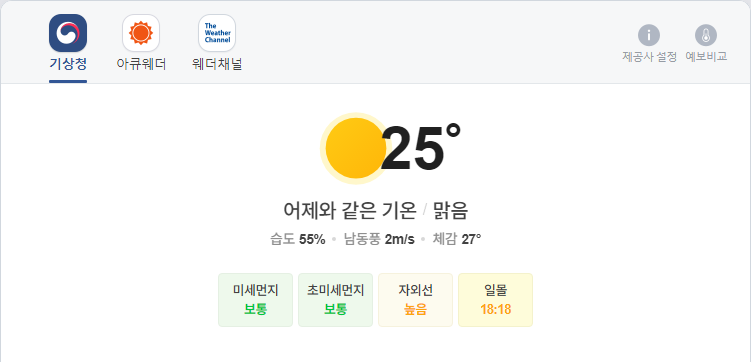
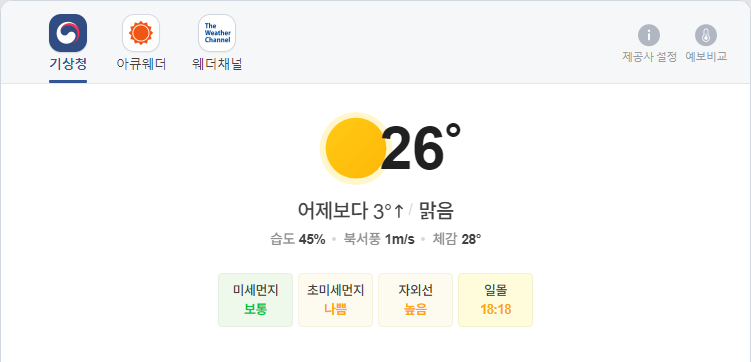
update result

diff --git a/README.md b/README.md
@@ -1,5 +1,5 @@
-##  2021-10-01 12:07:47   금요일 
-##### 날씨   -   어제와 같은 기온맑음  
+##  2021-10-01 16:02:57   금요일 
+##### 날씨   -   어제보다 1° 높아요맑음  
 <center><img src="../img/naver_weather_week.png"></center>
 ----
 ----
@@ -17,13 +17,13 @@
 <tr align = "right" > <td>NASDAQ</td><td>14,448.58</td><td>-63.86</td><td><font size="3" color="blue" >-0.44%</font></td><td><font size="3" color="black">0</font></td><td><font size="3" color="black">0</font></td><td>0</td>  </tr>
 <tr align = "right" > <td>S&P</td><td>4,307.54</td><td>-51.92</td><td><font size="3" color="blue" >-1.19%</font></td><td><font size="3" color="black">0</font></td><td><font size="3" color="black">0</font></td><td>0</td>  </tr>
 <tr align = "right" > <td>SHANHAI</td><td>3,568.17</td><td>31.87</td><td><font size="3" color="red" >0.9%</font></td><td><font size="3" color="black">0</font></td><td><font size="3" color="black">0</font></td><td>0</td>  </tr>
-<tr align = "right" > <td>INDIA</td><td>59,126.36</td><td>-286.91</td><td><font size="3" color="blue" >-0.48%</font></td><td><font size="3" color="black">0</font></td><td><font size="3" color="black">0</font></td><td>0</td>  </tr>
+<tr align = "right" > <td>INDIA</td><td>58,602.54</td><td>-523.82</td><td><font size="3" color="blue" >-0.89%</font></td><td><font size="3" color="black">0</font></td><td><font size="3" color="black">0</font></td><td>0</td>  </tr>
 </table>
 ----
 ##### 시장
 <table border="1" bordercolor="blue" align = "center" >
 <tr align = "right" > <td>Item</td><td>Price</td><td>Diff</td><td>Rate</td><td>Buy</td><td>Sell</td><td>...</td>  </tr>
-<tr align = "right" > <td>USD</td><td>1,187.0</td><td>1.2</td><td><font size="3" color="red">0.1%</font></td><td><font size="3" color="black">1,110</font></td><td><font size="3" color="black">0</font></td><td>0</td>  </tr>
+<tr align = "right" > <td>USD</td><td>1,188.0</td><td>2.5</td><td><font size="3" color="red">0.21%</font></td><td><font size="3" color="black">1,110</font></td><td><font size="3" color="black">0</font></td><td>0</td>  </tr>
 <tr align = "right" > <td>WTI</td><td>75.03</td><td>0.2</td><td><font size="3" color="red">0.26%</font></td><td><font size="3" color="black">29.0</font></td><td><font size="3" color="black">0</font></td><td>0</td>  </tr>
 <tr align = "right" > <td>GOLD</td><td>1,755.0</td><td>33.8</td><td><font size="3" color="red">1.96%</font></td><td><font size="3" color="black">0</font></td><td><font size="3" color="black">0</font></td><td>0</td>  </tr>
 </table>
@@ -31,33 +31,33 @@
 ##### 주가
 <table border="1" bordercolor="blue" align = "center" >
 <tr align = "right" > <td>Item</td><td>Price</td><td>Diff</td><td>Rate</td><td>Purchased</td><td>Sell</td><td>Buy</td>  </tr>
-<tr align = "right" > <td>한국 전력</td><td>23,550</td><td>0</td><td><font size="3" color="black">0.0%</font></td><td>25,720</td><td><font size="3" color="black">27,700</font></td><td><font size="3" color="black">20,700</font></td>  </tr>
+<tr align = "right" > <td>한국 전력</td><td>23,450</td><td>-100</td><td><font size="3" color="blue">-0.42%</font></td><td>25,720</td><td><font size="3" color="black">27,700</font></td><td><font size="3" color="black">20,700</font></td>  </tr>
 <tr align = "right" > <td>삼성엔지니어.</td><td>25,450</td><td>-100</td><td><font size="3" color="blue">-0.39%</font></td><td>18,935</td><td><font size="3" color="black">20,000</font></td><td><font size="3" color="black">8,000</font></td>  </tr>
 <tr align = "right" > <td>CJ CGV</td><td>29,200</td><td>-500</td><td><font size="3" color="blue">-1.68%</font></td><td>34,895</td><td><font size="3" color="black">36,000</font></td><td><font size="3" color="black">0</font></td>  </tr>
-<tr align = "right" > <td>아모레퍼시픽</td><td>171,500</td><td>-7,000</td><td><font size="3" color="blue">-3.92%</font></td><td>180,000</td><td><font size="3" color="black">240,000</font></td><td><font size="3" color="black">130,000</font></td>  </tr>
-<tr align = "right" > <td>한화</td><td>33,900</td><td>-350</td><td><font size="3" color="blue">-1.02%</font></td><td>25,550</td><td><font size="3" color="black">26,250</font></td><td><font size="3" color="black">26,250</font></td>  </tr>
-<tr align = "right" > <td>NAVER</td><td>382,500</td><td>-5,500</td><td><font size="3" color="blue">-1.42%</font></td><td>147,200</td><td><font size="3" color="black">386,000</font></td><td><font size="3" color="black">286,000</font></td>  </tr>
-<tr align = "right" > <td>LG 화학우</td><td>375,500</td><td>0</td><td><font size="3" color="black">0.0%</font></td><td>202,490</td><td><font size="3" color="black">384,000</font></td><td><font size="3" color="orangered">384,000</font></td>  </tr>
-<tr align = "right" > <td>스튜디오드래.</td><td>90,000</td><td>1,400</td><td><font size="3" color="red">1.58%</font></td><td>81,243</td><td><font size="3" color="black">85,200</font></td><td><font size="3" color="black">85,200</font></td>  </tr>
-<tr align = "right" > <td>QV미국IT</td><td>30,455</td><td>-640</td><td><font size="3" color="blue">-2.06%</font></td><td>0</td><td><font size="3" color="black">30,000</font></td><td><font size="3" color="black">20,000</font></td>  </tr>
-<tr align = "right" > <td>삼성 전자우</td><td>68,200</td><td>-1,400</td><td><font size="3" color="blue">-2.01%</font></td><td>60,675</td><td><font size="3" color="black">76,000</font></td><td><font size="3" color="black">55,000</font></td>  </tr>
-<tr align = "right" > <td>LS</td><td>63,000</td><td>-1,200</td><td><font size="3" color="blue">-1.87%</font></td><td>71,900</td><td><font size="3" color="black">82,000</font></td><td><font size="3" color="black">60,000</font></td>  </tr>
-<tr align = "right" > <td>한화에어로스.</td><td>51,900</td><td>1,700</td><td><font size="3" color="red">3.39%</font></td><td>25,700</td><td><font size="3" color="black">30,000</font></td><td><font size="3" color="black">24,000</font></td>  </tr>
-<tr align = "right" > <td>세틀뱅크</td><td>30,750</td><td>-250</td><td><font size="3" color="blue">-0.81%</font></td><td>35,078</td><td><font size="3" color="black">40,000</font></td><td><font size="3" color="black">25,000</font></td>  </tr>
-<tr align = "right" > <td>한화시스템.</td><td>17,650</td><td>150</td><td><font size="3" color="red">0.86%</font></td><td>16,875</td><td><font size="3" color="black">30,000</font></td><td><font size="3" color="black">14,000</font></td>  </tr>
+<tr align = "right" > <td>아모레퍼시픽</td><td>173,500</td><td>-5,000</td><td><font size="3" color="blue">-2.8%</font></td><td>180,000</td><td><font size="3" color="black">240,000</font></td><td><font size="3" color="black">130,000</font></td>  </tr>
+<tr align = "right" > <td>한화</td><td>33,700</td><td>-550</td><td><font size="3" color="blue">-1.61%</font></td><td>25,550</td><td><font size="3" color="black">26,250</font></td><td><font size="3" color="black">26,250</font></td>  </tr>
+<tr align = "right" > <td>NAVER</td><td>382,000</td><td>-6,000</td><td><font size="3" color="blue">-1.55%</font></td><td>147,200</td><td><font size="3" color="black">386,000</font></td><td><font size="3" color="black">286,000</font></td>  </tr>
+<tr align = "right" > <td>LG 화학우</td><td>377,000</td><td>1,500</td><td><font size="3" color="red">0.4%</font></td><td>202,490</td><td><font size="3" color="black">384,000</font></td><td><font size="3" color="orangered">384,000</font></td>  </tr>
+<tr align = "right" > <td>스튜디오드래.</td><td>90,800</td><td>2,200</td><td><font size="3" color="red">2.48%</font></td><td>81,243</td><td><font size="3" color="black">85,200</font></td><td><font size="3" color="black">85,200</font></td>  </tr>
+<tr align = "right" > <td>QV미국IT</td><td>30,380</td><td>-715</td><td><font size="3" color="blue">-2.3%</font></td><td>0</td><td><font size="3" color="black">30,000</font></td><td><font size="3" color="black">20,000</font></td>  </tr>
+<tr align = "right" > <td>삼성 전자우</td><td>68,000</td><td>-1,600</td><td><font size="3" color="blue">-2.3%</font></td><td>60,675</td><td><font size="3" color="black">76,000</font></td><td><font size="3" color="black">55,000</font></td>  </tr>
+<tr align = "right" > <td>LS</td><td>62,900</td><td>-1,300</td><td><font size="3" color="blue">-2.02%</font></td><td>71,900</td><td><font size="3" color="black">82,000</font></td><td><font size="3" color="black">60,000</font></td>  </tr>
+<tr align = "right" > <td>한화에어로스.</td><td>52,000</td><td>1,800</td><td><font size="3" color="red">3.59%</font></td><td>25,700</td><td><font size="3" color="black">30,000</font></td><td><font size="3" color="black">24,000</font></td>  </tr>
+<tr align = "right" > <td>세틀뱅크</td><td>31,100</td><td>100</td><td><font size="3" color="red">0.32%</font></td><td>35,078</td><td><font size="3" color="black">40,000</font></td><td><font size="3" color="black">25,000</font></td>  </tr>
+<tr align = "right" > <td>한화시스템.</td><td>17,450</td><td>-50</td><td><font size="3" color="blue">-0.29%</font></td><td>16,875</td><td><font size="3" color="black">30,000</font></td><td><font size="3" color="black">14,000</font></td>  </tr>
 <tr align = "right" > <td>카카오</td><td>116,500</td><td>-1,500</td><td><font size="3" color="blue">-1.27%</font></td><td>405,500</td><td><font size="3" color="black">440,000</font></td><td><font size="3" color="orangered">400,000</font></td>  </tr>
-<tr align = "right" > <td>호텔 신라</td><td>84,800</td><td>-1,800</td><td><font size="3" color="blue">-2.08%</font></td><td>88,650</td><td><font size="3" color="black">100,000</font></td><td><font size="3" color="black">70,000</font></td>  </tr>
-<tr align = "right" > <td>S-Oil</td><td>110,000</td><td>0</td><td><font size="3" color="black">0.0%</font></td><td>62,842</td><td><font size="3" color="black">100,000</font></td><td><font size="3" color="black">50,000</font></td>  </tr>
+<tr align = "right" > <td>호텔 신라</td><td>84,700</td><td>-1,900</td><td><font size="3" color="blue">-2.19%</font></td><td>88,650</td><td><font size="3" color="black">100,000</font></td><td><font size="3" color="black">70,000</font></td>  </tr>
+<tr align = "right" > <td>S-Oil</td><td>110,500</td><td>500</td><td><font size="3" color="red">0.45%</font></td><td>62,842</td><td><font size="3" color="black">100,000</font></td><td><font size="3" color="black">50,000</font></td>  </tr>
 <tr align = "right" > <td>LG전자</td><td>125,500</td><td>-2,000</td><td><font size="3" color="blue">-1.57%</font></td><td>82,022</td><td><font size="3" color="black">100,000</font></td><td><font size="3" color="black">60,000</font></td>  </tr>
-<tr align = "right" > <td>KT&G</td><td>80,900</td><td>-300</td><td><font size="3" color="blue">-0.37%</font></td><td>79,700</td><td><font size="3" color="black">100,000</font></td><td><font size="3" color="black">70,000</font></td>  </tr>
-<tr align = "right" > <td>지역난방공사</td><td>43,700</td><td>-400</td><td><font size="3" color="blue">-0.91%</font></td><td>43,590</td><td><font size="3" color="black">60,000</font></td><td><font size="3" color="black">30,000</font></td>  </tr>
-<tr align = "right" > <td>맥쿼리인프라</td><td>13,050</td><td>250</td><td><font size="3" color="red">1.95%</font></td><td>12,577</td><td><font size="3" color="black">30,000</font></td><td><font size="3" color="black">10,000</font></td>  </tr>
+<tr align = "right" > <td>KT&G</td><td>80,800</td><td>-400</td><td><font size="3" color="blue">-0.49%</font></td><td>79,700</td><td><font size="3" color="black">100,000</font></td><td><font size="3" color="black">70,000</font></td>  </tr>
+<tr align = "right" > <td>지역난방공사</td><td>43,400</td><td>-700</td><td><font size="3" color="blue">-1.59%</font></td><td>43,590</td><td><font size="3" color="black">60,000</font></td><td><font size="3" color="black">30,000</font></td>  </tr>
+<tr align = "right" > <td>맥쿼리인프라</td><td>13,000</td><td>200</td><td><font size="3" color="red">1.56%</font></td><td>12,577</td><td><font size="3" color="black">30,000</font></td><td><font size="3" color="black">10,000</font></td>  </tr>
 <tr align = "right" > <td>KOEDX은행</td><td>7,555</td><td>-85</td><td><font size="3" color="blue">-1.11%</font></td><td>7,578</td><td><font size="3" color="black">8,825</font></td><td><font size="3" color="black">6,225</font></td>  </tr>
-<tr align = "right" > <td>글로벌럭셔리</td><td>17,595</td><td>-95</td><td><font size="3" color="blue">-0.54%</font></td><td>16,302</td><td><font size="3" color="black">20,000</font></td><td><font size="3" color="black">10,000</font></td>  </tr>
-<tr align = "right" > <td>TIRGER200건설</td><td>3,285</td><td>-40</td><td><font size="3" color="blue">-1.2%</font></td><td>3,440</td><td><font size="3" color="black">4,000</font></td><td><font size="3" color="black">3,000</font></td>  </tr>
-<tr align = "right" > <td>KODEXK미래차</td><td>10,380</td><td>-240</td><td><font size="3" color="blue">-2.26%</font></td><td>10,955</td><td><font size="3" color="black">20,000</font></td><td><font size="3" color="black">10,000</font></td>  </tr>
-<tr align = "right" > <td>TIGER글로벌BBIG</td><td>11,560</td><td>-95</td><td><font size="3" color="blue">-0.82%</font></td><td>11,020</td><td><font size="3" color="black">20,000</font></td><td><font size="3" color="black">10,000</font></td>  </tr>
-<tr align = "right" > <td>TIGER퓨처모빌리티</td><td>11,420</td><td>-165</td><td><font size="3" color="blue">-1.42%</font></td><td>10,695</td><td><font size="3" color="black">20,000</font></td><td><font size="3" color="black">10,000</font></td>  </tr>
-<tr align = "right" > <td>한국금융지주</td><td>85,500</td><td>-800</td><td><font size="3" color="blue">-0.93%</font></td><td>0</td><td><font size="3" color="black">82,000</font></td><td><font size="3" color="black">60,000</font></td>  </tr>
+<tr align = "right" > <td>글로벌럭셔리</td><td>17,395</td><td>-295</td><td><font size="3" color="blue">-1.67%</font></td><td>16,302</td><td><font size="3" color="black">20,000</font></td><td><font size="3" color="black">10,000</font></td>  </tr>
+<tr align = "right" > <td>TIRGER200건설</td><td>3,280</td><td>-45</td><td><font size="3" color="blue">-1.35%</font></td><td>3,440</td><td><font size="3" color="black">4,000</font></td><td><font size="3" color="black">3,000</font></td>  </tr>
+<tr align = "right" > <td>KODEXK미래차</td><td>10,305</td><td>-315</td><td><font size="3" color="blue">-2.97%</font></td><td>10,955</td><td><font size="3" color="black">20,000</font></td><td><font size="3" color="black">10,000</font></td>  </tr>
+<tr align = "right" > <td>TIGER글로벌BBIG</td><td>11,530</td><td>-125</td><td><font size="3" color="blue">-1.07%</font></td><td>11,020</td><td><font size="3" color="black">20,000</font></td><td><font size="3" color="black">10,000</font></td>  </tr>
+<tr align = "right" > <td>TIGER퓨처모빌리티</td><td>11,365</td><td>-220</td><td><font size="3" color="blue">-1.9%</font></td><td>10,695</td><td><font size="3" color="black">20,000</font></td><td><font size="3" color="black">10,000</font></td>  </tr>
+<tr align = "right" > <td>한국금융지주</td><td>85,600</td><td>-700</td><td><font size="3" color="blue">-0.81%</font></td><td>0</td><td><font size="3" color="black">82,000</font></td><td><font size="3" color="black">60,000</font></td>  </tr>
 </table>
 ----
